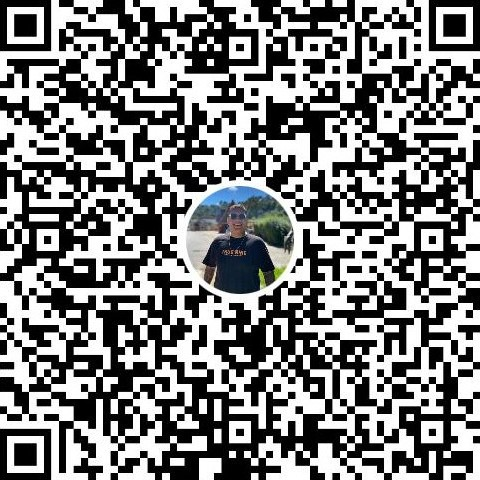
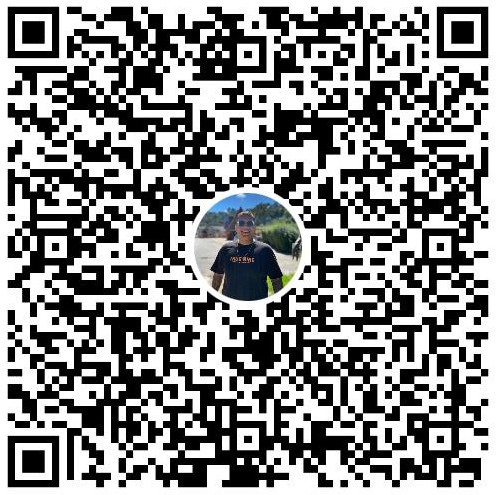
add README.md

diff --git a/README.md b/README.md
@@ -1,0 +1,121 @@
+
+# 🚗 API Desempenho de Aulas da Auto Escola no Detran RJ
+_Consulta de aulas e provas de autoescola._
+
+<br>
+
+🚨 **Importante: Transparência e Segurança** 🚨
+
+Todos os dados fornecidos pela nossa API são **obtidos de forma totalmente pública** e consultados diretamente no site oficial do Detran RJ: [detran.rj.gov.br](https://detran.rj.gov.br).
+
+⚠ **Não temos acesso direto ao banco de dados do Detran**. Nosso processo consiste unicamente em exportar os dados disponíveis no site e repassá-los para você através da API.
+
+🔒 **Nada é armazenado**: Não guardamos nenhum tipo de informação. Garantimos a privacidade e segurança dos dados.
+
+<br>
+
+## 🚀 Tecnologias Utilizadas
+
+- **Java 17**
+- **Spring Boot 3**
+- **Swagger 3**
+- **Requisições Http2 Assíncronas**
+- **Requisições CURL**
+- **Docker**
+- **Render**
+- **Trello**
+
+<br>
+
+## 🌐 Hospedagem
+
+- **API**: [Acessar API](https://api-desempenho-aulas-detranrj.onrender.com/)
+
+<br>
+
+## 📋 Metodologia de Desenvolvimento
+
+Utilizamos metodologias ágeis para o desenvolvimento desta API, com foco no **Kanban**. Acompanhe o progresso do projeto no nosso quadro do Trello: [Trello Board](https://trello.com/b/x0ljXeUp/desempenho-aulas-auto-escola-detran-rj).
+
+<br>
+
+## 🔧 Funcionalidades
+
+- 📍 Consulta das **Aulas Teóricas**.
+- 📍 Consulta das **Aulas Práticas**.
+- 📍 Situação das **Provas**.
+- 📑 **Documentação da API** com Swagger.
+
+<br>
+
+## 📚 Documentação da API
+
+A documentação completa da API está disponível via Swagger: [Documentação Swagger](https://api-desempenho-aulas-detranrj.onrender.com/swagger-ui/index.html).
+
+
+## 🛠 Executar o Projeto
+
+Para rodar a API localmente, use o seguinte comando:
+
+```bash
+    mvn spring-boot:run
+```
+
+## 🚢 Subir para Docker Hub
+
+1. Realize o login no Docker:
+
+```bash
+    docker login
+```
+
+2. Construa a imagem Docker:
+
+```bash
+    docker build -t api-desempenho-aulas-detranrj:latest .
+```
+
+3. Marque a imagem com a tag desejada:
+
+```bash
+    docker tag api-desempenho-aulas-detranrj:latest seu-usuario/api-desempenho-aulas-detranrj:latest
+```
+
+4. Faça o push para o Docker Hub:
+
+```bash
+    docker push seu-usuario/api-desempenho-aulas-detranrj:latest
+```
+
+## 🌍 Deploy no Render
+
+1. Acesse o painel do Render: [Dashboard Render](https://dashboard.render.com/web/srv-cuh95lhu0jms7380bf2g).
+2. Clique em **Manual Deploy** → **Deploy latest reference**.
+
+
+## 🤝 Contribuição
+
+Se você deseja contribuir com este projeto, sinta-se à vontade para abrir um **pull request** ou **relatar um problema**.
+
+
+
+## 💖 Faça uma Doação
+
+Se você gostou do projeto e gostaria de contribuir, você pode fazer uma doação através do seguinte QR Code:
+
+<p align="center">
+  <img width="300" height="auto" src="https://raw.githubusercontent.com/AlexSouzaSilvax/desempenho-aulas-dentranrj/refs/heads/dev/assets/qrcode-pix.jpg" alt="QR Code de Doação" />
+</p>
+
+```
+00020126760014br.gov.bcb.pix0136a942ad44-c3f1-4694-b427-5561f0baea9b0214MUITO OBRIGADO5204000053039865802BR5919Alex Souza Da Silva6009Sao Paulo62280524DoacaoProjetosOpenSource6304CCA3
+```
+
+## 📩 Contato
+
+Se tiver dúvidas ou sugestões, entre em contato pelo e-mail: [alexsouzasilvax@gmail.com](mailto:alexsouzasilvax@gmail.com).
+
+<br>
+
+
+_Este projeto foi criado para atender às pessoas que estão em processo de tirar CNH no estado do Rio de Janeiro e precisam consultar quais aulas foram 'COMPUTADAS' no sistema do [Detran RJ](https://detran.rj.gov.br)._
